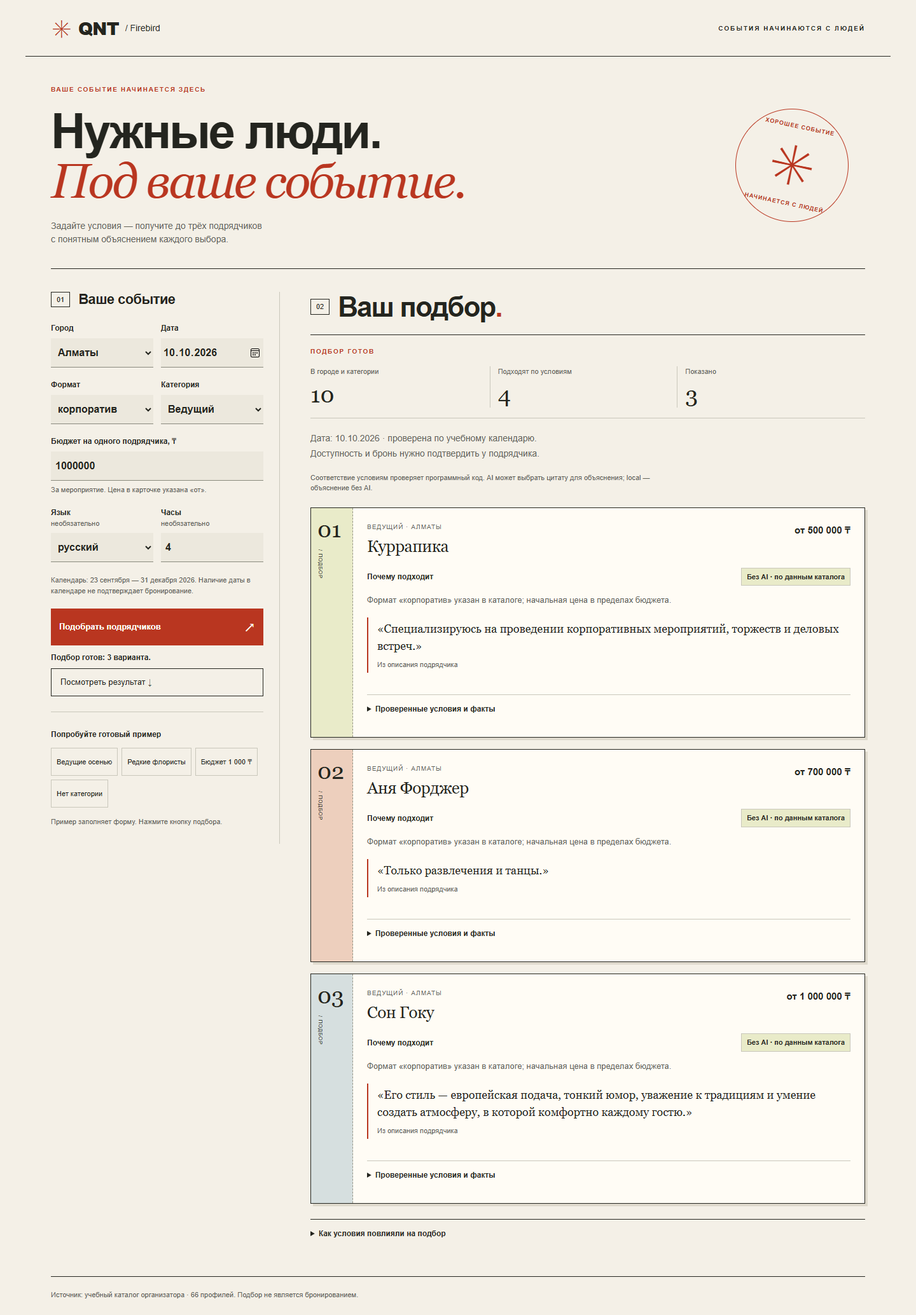
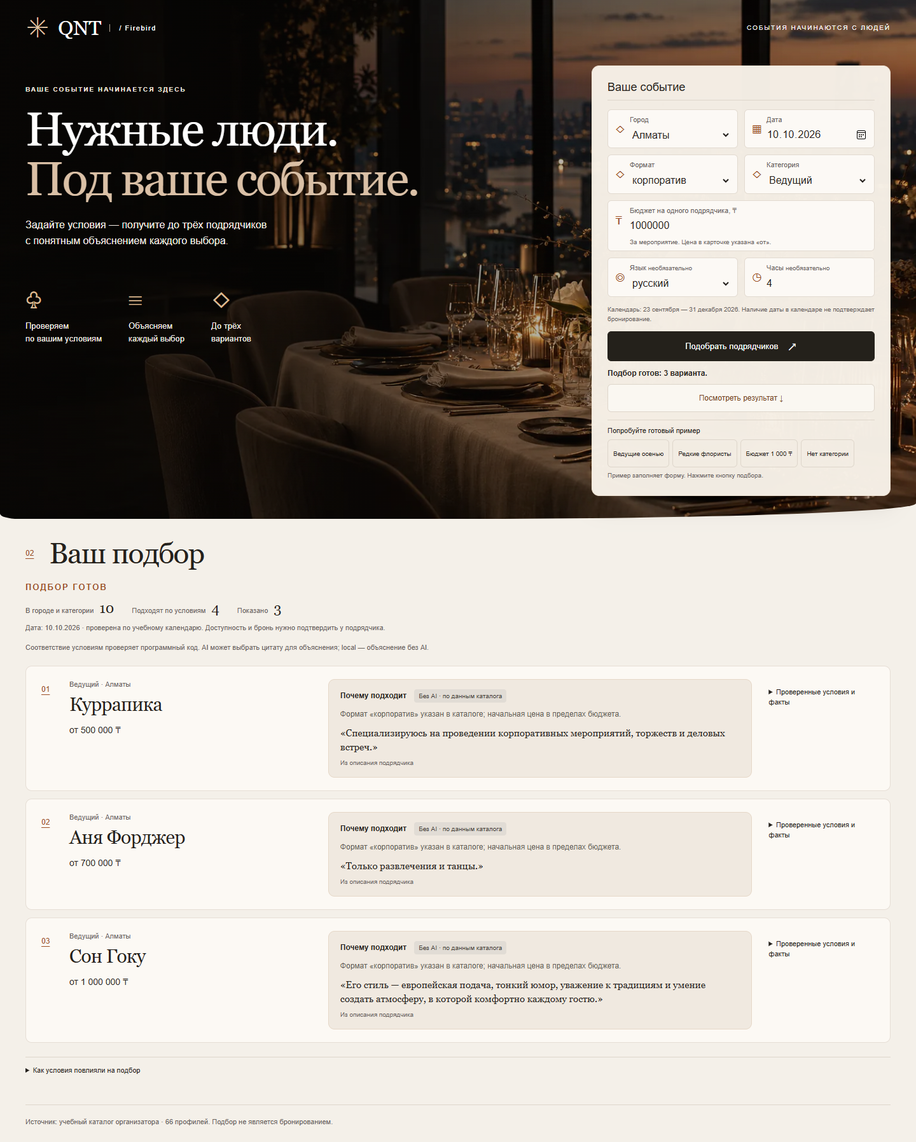
Adapt contractor UI to cinematic event design reference

diff --git a/frontend/src/style.css b/frontend/src/style.css
@@ -1,135 +1,143 @@
-:root{font-family:Arial,Helvetica,sans-serif;color:#24251f;background:#f4f0e7;font-synthesis:none;line-height:1.5;--ink:#24251f;--muted:#616157;--accent:#b93620;--line:#c9c7bb}
+:root{font-family:Arial,Helvetica,sans-serif;color:#25211d;background:#f4f0e9;font-synthesis:none;line-height:1.5;--ink:#25211d;--muted:#68615b;--accent:#9b4e24;--line:#ded6cb}
 *{box-sizing:border-box}
 body{margin:0}
 button,input,select{font:inherit}
 button,summary{cursor:pointer}
-button{border:1px solid var(--ink);background:transparent;color:var(--ink);padding:10px 14px;min-height:44px}
-button:hover{background:#e5dfd0}
+button{border:1px solid var(--line);background:#faf7f1;color:var(--ink);padding:10px 14px;min-height:44px;border-radius:6px}
+button:hover{background:#e9dfd1}
 button:disabled{opacity:.5;cursor:wait}
-:focus-visible{outline:3px solid #2459b5;outline-offset:4px}
+:focus-visible{outline:3px solid #2877cb;outline-offset:4px}
 a{color:inherit}
-header{max-width:1360px;margin:auto;padding:23px 40px;display:flex;align-items:center;justify-content:space-between;border-bottom:1px solid var(--ink)}
-.brand{display:flex;align-items:center;gap:10px;font-size:28px;font-weight:900;letter-spacing:-1px;text-decoration:none}
-.brand-case{font-size:14px;font-weight:400;letter-spacing:0}
-.mark{color:var(--accent);font-size:38px;line-height:1}
-.tag{font-size:10px;letter-spacing:2px;font-weight:700}
-main{max-width:1360px;margin:auto;padding:38px 40px 24px}
-.intro{display:flex;justify-content:space-between;gap:24px;align-items:center;padding-bottom:35px;border-bottom:1px solid var(--ink);margin-bottom:36px}
-.eyebrow{font-size:10px;letter-spacing:1.7px;font-weight:700}
-.intro .eyebrow{color:var(--accent);margin-top:0}
-h1{font-size:clamp(40px,5.5vw,76px);line-height:1.03;letter-spacing:-3px;margin:20px 0}
-h1 span{font-family:Georgia,'Times New Roman',serif;font-weight:400;font-style:italic;color:var(--accent)}
-.intro-copy>p:last-child{font-size:14px;color:var(--muted);margin-bottom:0}
-.poster-stamp{width:178px;height:178px;flex-shrink:0;border:1px solid var(--accent);border-radius:50%;display:flex;align-items:center;justify-content:center;flex-direction:column;color:var(--accent);transform:rotate(12deg);margin-right:26px}
-.poster-stamp span{font-size:9px;font-weight:700;letter-spacing:1px}
-.poster-stamp b{font-size:87px;line-height:1.25;font-weight:400}
-.layout{display:grid;grid-template-columns:minmax(300px,360px) minmax(0,1fr);gap:48px;align-items:start}
-.panel{padding:0 25px 24px 0;border-right:1px solid var(--line)}
-.section-title{display:flex;align-items:center;gap:13px;margin-bottom:24px}
-.step{font-size:11px;border:1px solid currentColor;padding:3px 8px;font-variant-numeric:tabular-nums}
-h2{font-size:22px;line-height:1.1;letter-spacing:-.6px;margin:0}
-.results>.section-title{border-bottom:1px solid var(--ink);padding-bottom:19px;margin-bottom:18px}
-.results h2{font-size:44px;letter-spacing:-2px;scroll-margin-top:24px}
-.title-dot{color:var(--accent)}
-.fields{display:grid;grid-template-columns:minmax(0,1fr) minmax(0,1fr);gap:18px 12px}
-label{font-size:12px;font-weight:700;min-width:0}
-input,select{display:block;width:100%;min-width:0;height:46px;border:0;border-bottom:1px solid #89897d;border-radius:0;padding:0 7px;margin-top:7px;background:#ece8dd;color:var(--ink);font-size:16px}
-input[type=date]{padding:0 3px}
+.hero{background:linear-gradient(90deg,#090806b8,#100c0845 65%,#100c0833),url('/event-dinner.webp') center 57%/cover no-repeat;background-color:#1b1713;color:#fff;padding-bottom:36px;border-radius:0 0 50% 2% / 0 0 3% 1%}
+header{max-width:1440px;margin:auto;padding:22px 40px;display:flex;align-items:center;justify-content:space-between;gap:20px}
+.brand{display:flex;align-items:center;gap:13px;font:32px Georgia,serif;text-decoration:none}
+.brand-case{font:11px Arial,sans-serif;letter-spacing:1.5px;border-left:1px solid #b9aa97;padding-left:14px}
+.mark{color:#e5c9aa;font-size:43px;line-height:1}
+.tag{font-size:10px;letter-spacing:2px}
+.hero-content{max-width:1440px;margin:auto;padding:16px 40px 0;display:grid;grid-template-columns:minmax(0,1fr) minmax(400px,470px);gap:64px;align-items:start}
+.intro{padding-top:30px;min-width:0}
+.eyebrow{font-size:10px;letter-spacing:2px;font-weight:600}
+.intro .eyebrow{margin:0 0 16px;color:#f1e8de}
+h1{font-family:Georgia,'Times New Roman',serif;font-weight:400;font-size:clamp(42px,5.2vw,76px);line-height:1.04;letter-spacing:-2.8px;margin:0 0 22px}
+h1 span{color:#dac0a6}
+.intro-copy>p:last-child{font-size:16px;line-height:1.55;max-width:430px;color:#f5eee7}
+.benefits{display:flex;gap:42px;margin-top:62px;font-size:13px;color:#f5eee7}
+.benefits span{display:block;font:38px Georgia,serif;color:#d9b993;line-height:1;margin-bottom:12px}
+.panel{background:#f6f0e7fa;color:var(--ink);padding:24px;border:1px solid #eee2d2;border-radius:12px;box-shadow:0 12px 40px #0002}
+.section-title{display:flex;align-items:center;gap:24px;margin-bottom:18px}
+.panel .section-title{border-bottom:1px solid var(--line);padding-bottom:9px;margin-bottom:14px}
+.step{color:var(--accent);font-size:12px;text-decoration:underline;text-underline-offset:4px}
+h2{font-size:18px;font-weight:500;line-height:1.1;margin:0}
+.fields{display:grid;grid-template-columns:minmax(0,1fr) minmax(0,1fr);gap:10px}
+.fields label{display:block;position:relative;font-size:11px;font-weight:400;color:var(--muted);min-width:0;border:1px solid #e2dad0;border-radius:6px;background:#fcf9f5;padding:7px 10px 4px 34px}
+.fields label:before{position:absolute;left:11px;top:20px;color:var(--accent);font:19px Georgia,serif;content:'◇'}
+.fields label[for=date]:before{content:'▦'}
+.fields label[for=budget]:before{content:'₸'}
+.fields label[for=language]:before{content:'◎'}
+.fields label[for=hours]:before{content:'◷'}
+input,select{display:block;width:100%;min-width:0;height:32px;border:0;border-radius:0;padding:0;margin:0;background:transparent;color:var(--ink);font-size:16px}
+input[type=date]{font-size:16px}
 .wide{grid-column:1/-1}
-small{font-size:11px;font-weight:400;color:var(--muted)}
-label small{display:block}
-.wide small{margin-top:6px}
-.hint{font-size:11px;color:var(--muted);margin:20px 0}
-.primary{width:100%;background:var(--accent);color:#fff;border-color:var(--accent);display:flex;justify-content:space-between;gap:10px;align-items:center;padding:16px 12px;font-size:13px;font-weight:700;text-align:left}
-.primary:hover{background:#922a18}
-.primary span{font-size:24px;line-height:1}
+small{font-size:10px;font-weight:400;color:var(--muted)}
+label small{display:inline}
+.wide small{display:block;margin:2px 0}
+.hint{font-size:10px;color:var(--muted);margin:12px 0}
+.primary{width:100%;background:#24211b;color:#fff;border-color:#24211b;display:flex;justify-content:center;gap:14px;align-items:center;padding:12px;font-size:13px;text-align:center}
+.primary:hover{background:#463a2d}
+.primary span{font-size:21px;line-height:1}
 .search-feedback{font-size:12px;font-weight:700;margin-top:10px}
 .search-feedback:empty{display:none}
-.outcome-link{width:100%;text-align:left;margin-top:8px;font-size:13px}
-.examples{margin-top:24px;border-top:1px solid var(--line);padding-top:14px}
-.examples p{font-size:12px;font-weight:700}
-.examples>div{display:flex;flex-wrap:wrap;gap:6px;margin-bottom:9px}
-.examples button{font-size:11px;border-color:var(--line);padding:8px}
-.summary{margin-bottom:18px}
-.summary .eyebrow{color:var(--accent)}
-.summary>p:last-child{font-size:14px}
-.explanation-note{font-size:11px;color:var(--muted);max-width:580px;margin:0 0 22px}
-.card{display:grid;grid-template-columns:66px minmax(0,1fr);background:#fffcf5;border:1px solid var(--ink);margin-bottom:18px;box-shadow:4px 4px 0 #ded9cc}
-.card-index{border-right:1px dashed #99988a;background:#e9ebc9;padding:14px 10px;font-size:36px;font-family:Georgia,serif;line-height:1.1}
-.card-index span{display:block;font:8px Arial,sans-serif;letter-spacing:1px;margin-top:12px;writing-mode:vertical-rl}
-.card:nth-of-type(2) .card-index{background:#edcfbd}
-.card:nth-of-type(3) .card-index{background:#d6dfdf}
-.card-body{padding:22px;min-width:0}
-.card-top{display:flex;justify-content:space-between;align-items:start;gap:12px}
-.meta{font-size:10px;text-transform:uppercase;letter-spacing:1px;color:var(--muted);margin:0 0 9px}
-h3{font-size:26px;font-family:Georgia,'Times New Roman',serif;line-height:1.15;font-weight:400;letter-spacing:-.5px;margin:0;overflow-wrap:anywhere}
-.price{font-size:15px;white-space:nowrap;padding-top:2px}
-.card-body>p{font-size:13px;line-height:1.7;margin:16px 0;overflow-wrap:anywhere}
-.pills{display:flex;gap:5px;flex-wrap:wrap}
-.pills span{border:1px solid var(--line);padding:4px 7px;font-size:10px;color:#505046;overflow-wrap:anywhere;max-width:100%}
-.card details{margin-top:16px;border-top:1px solid var(--line)}
-summary{font-size:12px;font-weight:700;min-height:44px;padding:13px 0}
+.outcome-link{width:100%;margin-top:8px;font-size:12px;color:#75421f}
+.examples{margin-top:12px;padding-top:8px;border-top:1px solid var(--line)}
+.examples p{font-size:11px;margin:0 0 6px}
+.examples>div{display:flex;flex-wrap:wrap;gap:5px}
+.examples button{font-size:10px;padding:7px 8px;min-height:44px;background:transparent}
+.examples small{display:block;margin-top:5px}
+.content{max-width:1440px;margin:auto;padding:28px 40px 24px}
+.results>.section-title{margin-bottom:18px}
+.results h2{font:46px Georgia,serif;letter-spacing:-1.5px;scroll-margin-top:24px}
+.title-dot{display:none}
+.summary{margin-bottom:15px}
+.summary>p{font-size:13px}
+.summary .eyebrow{color:var(--accent);margin:0}
+.explanation-note{font-size:11px;color:var(--muted);margin:12px 0 20px}
+.card{display:grid;grid-template-columns:36px minmax(0,1fr);gap:8px;background:#fcf9f4;border:1px solid #e6ded5;border-radius:10px;padding:20px 24px;margin-bottom:12px}
+.card-index{font-size:12px;color:var(--accent);padding-top:7px;text-decoration:underline;text-underline-offset:4px}
+.card-index span{display:none}
+.card-body{display:grid;grid-template-columns:minmax(190px,.8fr) minmax(0,1.4fr) minmax(120px,.35fr);column-gap:26px;align-items:start;min-width:0}
+.card-top{min-width:0}
+.meta{font-size:11px;color:var(--muted);margin:0 0 7px}
+h3{font:30px/1.15 Georgia,serif;letter-spacing:-.8px;margin:0 0 12px;overflow-wrap:anywhere}
+.price{font-size:14px;font-weight:500;display:block;color:var(--ink)}
+.pills{display:flex;gap:5px;flex-wrap:wrap;grid-column:1;grid-row:2}
+.pills:empty{display:none}
+.pills span{border-radius:20px;background:#eee6db;padding:4px 8px;font-size:10px;color:#62513f;overflow-wrap:anywhere;max-width:100%}
+.card details{grid-column:3;grid-row:1 / span 2;min-width:0}
+.card details[open]{grid-column:1/-1;grid-row:3;border-top:1px solid var(--line);margin-top:16px}
+summary{font-size:11px;font-weight:400;min-height:44px;padding:12px 0}
 dl{font-size:12px;margin:0 0 8px}
-dt{color:var(--muted);margin-top:12px}
+dt{color:var(--muted);margin-top:10px}
 dd{margin:2px 0 0;overflow-wrap:anywhere}
-.filters{border-top:1px solid var(--ink);margin-top:24px;font-size:12px}
+.filters{border-top:1px solid var(--line);margin-top:22px;font-size:12px}
 .filters ul{list-style:none;padding:0}
 .filters li{display:flex;justify-content:space-between;padding:7px 0;border-bottom:1px solid var(--line)}
-.error{background:#f5dbd0;border-left:3px solid var(--accent);padding:22px;font-size:14px;overflow-wrap:anywhere}
-.status{padding:30px;border:1px dashed var(--ink);font-size:14px}
-.empty{position:relative;background:#e9ebc9;min-height:390px;padding:30px;overflow:hidden;border:1px solid var(--ink)}
-.empty-icon{display:block;color:var(--accent);font-size:100px;line-height:1.1;margin:22px 0}
-.empty h3{font-size:36px;max-width:370px}
-.empty>p:not(.eyebrow){font-size:13px;color:#505046}
-.empty .pills{margin-top:25px}
-.empty .pills span{border-color:#95967e}
-footer{font-size:11px;color:var(--muted);border-top:1px solid var(--ink);margin-top:45px;padding-top:20px}
-.demo{padding:10px 20px;background:#e9ebc9;text-align:center;font-size:13px;font-weight:700}
-.demo span{font-weight:400}
-@media(min-width:1440px){main{padding-top:44px}
-}
-@media(max-width:1000px){.layout{gap:24px;grid-template-columns:310px minmax(0,1fr)}
-.panel{padding-right:18px}
-.card{grid-template-columns:46px minmax(0,1fr)}
-.card-index{font-size:27px;padding:14px 7px}
-.card-body{padding:18px}
-.card-top{flex-direction:column}
-.poster-stamp{width:140px;height:140px;margin-right:8px}
-.poster-stamp b{font-size:60px}
-.poster-stamp span{font-size:7px}
-}
-@media(max-width:760px){header{padding:16px 20px}
-.tag{display:none}
-main{padding:28px 20px 20px}
-.intro{margin-bottom:28px;padding-bottom:26px}
-.poster-stamp{display:none}
-h1{font-size:clamp(37px,7.5vw,56px);letter-spacing:-1.8px}
-.intro-copy>p:last-child{font-size:13px}
-.desktop{display:none}
-.layout{grid-template-columns:minmax(0,1fr);gap:34px}
-.panel{padding:0;border:0}
-.fields{gap:18px 14px}
-.results h2{font-size:40px}
-.card-top{flex-direction:column}
-.card-body{padding:18px}
-.card-index{font-size:27px}
-.card{grid-template-columns:44px minmax(0,1fr)}
-h3{font-size:25px}
-.empty{min-height:340px;padding:24px}
+.error{background:#f5e0d9;border-left:3px solid #a44028;padding:22px;font-size:14px;border-radius:6px;overflow-wrap:anywhere}
+.status{padding:30px;border:1px dashed var(--line);font-size:14px}
+.empty{border:1px solid var(--line);background:#faf6ef;padding:30px;border-radius:10px;position:relative}
+.empty-icon{float:right;font-size:80px;line-height:1;color:#ae805c}
 .empty h3{font-size:32px}
+.empty>p:not(.eyebrow){font-size:13px;color:var(--muted)}
+.empty .pills{margin-top:20px}
+footer{font-size:11px;color:var(--muted);border-top:1px solid var(--line);margin-top:30px;padding-top:18px}
+.demo{padding:10px 20px;background:#eed9b6;text-align:center;font-size:13px;font-weight:700}
+.demo span{font-weight:400}
+@media(max-width:1100px){.hero-content{grid-template-columns:minmax(0,1fr) 410px;gap:24px}
+header,.hero-content{padding-left:28px;padding-right:28px}
+.content{padding-left:28px;padding-right:28px}
+h1{font-size:54px}
+.benefits{gap:20px}
+.card-body{grid-template-columns:minmax(160px,.7fr) minmax(0,1.3fr)}
+.card details{grid-column:1/-1;grid-row:3;border-top:1px solid var(--line);margin-top:12px}
+.card{padding:20px}
+.card details[open]{margin-top:12px}
+}
+@media(max-width:760px){header{padding:18px 20px}
+.tag{display:none}
+.hero{border-radius:0 0 22px 22px;background-position:60% top}
+.hero-content{grid-template-columns:minmax(0,1fr);gap:28px;padding:0 20px}
+.intro{padding-top:20px}
+h1{font-size:clamp(39px,7vw,54px);letter-spacing:-1.8px}
+.intro-copy>p:last-child{font-size:14px;max-width:370px}
+.desktop{display:none}
+.benefits{margin-top:26px;gap:26px;font-size:11px}
+.benefits span{font-size:28px;margin-bottom:8px}
+.panel{padding:20px}
+.content{padding:26px 20px}
+.results h2{font-size:35px;letter-spacing:-1px}
+.section-title{gap:16px}
+.card{grid-template-columns:24px minmax(0,1fr);padding:18px 14px;gap:8px}
+.card-body{grid-template-columns:minmax(0,1fr);gap:14px}
+.card-top{display:flex;flex-wrap:wrap;align-items:start;justify-content:space-between;gap:8px}
+.card-top>div{min-width:0;flex:1 1 160px}
+h3{font-size:27px;margin-bottom:0}
+.price{padding-top:4px}
+.card .choice-reason{grid-column:1;grid-row:2}
+.card .pills{grid-row:3}
+.card details,.card details[open]{grid-column:1;grid-row:4;margin-top:0}
 .demo span{display:block}
-.examples button{font-size:12px}
-footer{margin-top:30px}
+.examples button{font-size:11px}
 }
-@media(max-width:360px){header{padding:14px 16px}
-main{padding:24px 16px}
+@media(max-width:360px){header{padding:16px}
+.hero-content{padding:0 16px}
+.content{padding:24px 16px}
+.panel{padding:16px}
 .fields{grid-template-columns:minmax(0,1fr)}
-.card-body{padding:14px}
-.card{grid-template-columns:34px minmax(0,1fr)}
-.card-index{font-size:22px;padding:14px 4px}
-.results h2{font-size:36px}
-.price{font-size:14px}
-.intro .eyebrow{font-size:9px;letter-spacing:1px}
-h1{font-size:37px}
-.card-body>p{font-size:13px}
+.benefits{gap:18px;font-size:10px}
+h1{font-size:39px}
+.intro .eyebrow{font-size:9px;letter-spacing:1.3px}
+.card{padding:16px 10px;grid-template-columns:20px minmax(0,1fr)}
+.results h2{font-size:32px}
+.empty-icon{font-size:50px}
 }
+
+@media(max-width:760px){.fields label[for=date]{padding-left:7px;padding-right:7px}.fields label[for=date]:before{display:none}}

diff --git a/frontend/src/main.tsx b/frontend/src/main.tsx
@@ -40,9 +40,9 @@ function App() {
  }
  return <>
   {demo && <div className="demo" role="note">Демонстрационные ответы интерфейса <span>· Вымышленные примеры, без сервера и AI</span></div>}
-  <header><a className="brand" href="./"><span className="mark" aria-hidden="true">✳</span> QNT <span className="brand-case">/ Firebird</span></a><span className="tag">СОБЫТИЯ НАЧИНАЮТСЯ С ЛЮДЕЙ</span></header>
-  <main><div className="intro"><div className="intro-copy"><p className="eyebrow">ВАШЕ СОБЫТИЕ НАЧИНАЕТСЯ ЗДЕСЬ</p><h1>Нужные люди.<br/><span>Под ваше событие.</span></h1><p>Задайте условия — получите до трёх подрядчиков<br className="desktop"/> с понятным объяснением каждого выбора.</p></div><div className="poster-stamp" aria-hidden="true"><span>ХОРОШЕЕ СОБЫТИЕ</span><b>✳</b><span>НАЧИНАЕТСЯ С ЛЮДЕЙ</span></div></div>
-  <div className="layout"><section className="panel" aria-labelledby="form-title"><div className="section-title"><span className="step">01</span><h2 id="form-title">Ваше событие</h2></div>
+  <main><div className="hero"><header><a className="brand" href="./"><span className="mark" aria-hidden="true">✳</span> QNT <span className="brand-case">/ Firebird</span></a><span className="tag">СОБЫТИЯ НАЧИНАЮТСЯ С ЛЮДЕЙ</span></header>
+  <div className="hero-content"><div className="intro"><div className="intro-copy"><p className="eyebrow">ВАШЕ СОБЫТИЕ НАЧИНАЕТСЯ ЗДЕСЬ</p><h1>Нужные люди.<br/><span>Под ваше событие.</span></h1><p>Задайте условия — получите до трёх подрядчиков<br className="desktop"/> с понятным объяснением каждого выбора.</p></div><div className="benefits"><div><span aria-hidden="true">♧</span>Проверяем<br/>по вашим условиям</div><div><span aria-hidden="true">≡</span>Объясняем<br/>каждый выбор</div><div><span aria-hidden="true">◇</span>До трёх<br/>вариантов</div></div></div>
+  <section className="panel" aria-labelledby="form-title"><div className="section-title"><h2 id="form-title">Ваше событие</h2></div>
   {!options && !optionsError && <p role="status">Загружаем справочники…</p>}
   {optionsError && <div role="alert" className="error"><p>{optionsError}</p><button onClick={() => setReload(r => r + 1)}>Повторить загрузку</button></div>}
   {options && <form onSubmit={submit}><div className="fields">
@@ -54,15 +54,15 @@ function App() {
    <label htmlFor="language">Язык <small>необязательно</small><select id="language" value={form.language} onChange={e => update('language', e.target.value)}><option value="">Без ограничения</option>{options.languages.map(v => <option key={v}>{v}</option>)}</select></label>
    <label htmlFor="hours">Часы <small>необязательно</small><input id="hours" type="number" min="0.01" step="any" placeholder="Без ограничения" value={form.duration_hours} onChange={e => update('duration_hours', e.target.value)}/></label>
   </div><p className="hint">Календарь: 23 сентября — 31 декабря 2026. Наличие даты в календаре не подтверждает бронирование.</p><button className="primary" type="submit">{loading ? 'Подбираем… Повторить запрос' : 'Подобрать подрядчиков'}<span aria-hidden="true">↗</span></button><div className="search-feedback" role="status" aria-atomic="true">{loading ? 'Проверяем условия. Ожидание — до 12 секунд…' : error ? 'Не удалось выполнить подбор.' : result ? (result.returned_count ? `Подбор готов: ${result.returned_count} варианта.` : 'Подбор завершён: совпадений нет.') : ''}</div>{(result || error) && <button className="outcome-link" type="button" onClick={() => { outcome.current?.focus({ preventScroll: true }); outcome.current?.scrollIntoView({ block: 'start' }); }}>{error ? 'Перейти к ошибке' : 'Посмотреть результат'} ↓</button>}</form>}
-  <div className="examples"><p>Попробуйте готовый пример</p><div>{examples.map(e => <button key={e.title} disabled={!options} onClick={() => example(e.request)}>{e.title}</button>)}</div><small>Пример заполняет форму. Нажмите кнопку подбора.</small></div></section>
-  <section className="results" aria-labelledby="results-title" aria-busy={loading}><div className="section-title"><span className="step">02</span><h2 id="results-title" ref={outcome} tabIndex={-1}>Ваш подбор<span className="title-dot">.</span></h2></div>
+  <div className="examples"><p>Попробуйте готовый пример</p><div>{examples.map(e => <button key={e.title} disabled={!options} onClick={() => example(e.request)}>{e.title}</button>)}</div><small>Пример заполняет форму. Нажмите кнопку подбора.</small></div></section></div></div>
+  <div className="content"><section className="results" aria-labelledby="results-title" aria-busy={loading}><div className="section-title"><span className="step">02</span><h2 id="results-title" ref={outcome} tabIndex={-1}>Ваш подбор<span className="title-dot">.</span></h2></div>
   <div>{loading && <p className="status">Проверяем условия. Ожидание — до 12 секунд…</p>}{result && <ResultSummary result={result} date={form.date}/>}</div>
   {error && <div className="error" role="alert">{error}<p>Параметры сохранены. Повторите подбор.</p></div>}
   {!result && !loading && !error && <div className="empty"><p className="eyebrow">ЛЮДИ / ИДЕИ / СОБЫТИЯ</p><span className="empty-icon" aria-hidden="true">✳</span><h3>У каждого выбора — основания</h3><p>Здесь появятся кандидаты, цены<br/> и факты, на которых основан подбор.</p><div className="pills"><span>До 3 вариантов</span><span>Прозрачные условия</span></div></div>}
   {Boolean(result?.cards.length) && <p className="explanation-note">Соответствие условиям проверяет программный код. AI может выбрать цитату для объяснения; local — объяснение без AI.</p>}
   {result?.cards.map((card, index) => <ContractorCard key={card.id} card={card} index={index}/>)}
   {result && <><details className="filters"><summary>Как условия повлияли на подбор</summary><p>В городе и категории: {result.total_in_category}. Последовательные фильтры: каждый исключённый кандидат учитывается только по первой причине.</p><ul>{result.rejections.map(r => <li key={r.code}>{reasons[r.code]} <strong>{r.count}</strong></li>)}</ul></details>{result.returned_count === 0 && <button onClick={() => firstField.current?.focus()}>Изменить условия ↑</button>}</>}
-  </section></div><footer>Источник: учебный каталог организатора{options ? ` · ${options.dataset_count} профилей` : ''}. {demo && 'Здесь показаны только отдельные вымышленные фикстуры.'} Подбор не является бронированием.</footer></main>
+  </section><footer>Источник: учебный каталог организатора{options ? ` · ${options.dataset_count} профилей` : ''}. {demo && 'Здесь показаны только отдельные вымышленные фикстуры.'} Подбор не является бронированием.</footer></div></main>
  </>;
 }
 createRoot(document.getElementById('root')!).render(<App/>);

diff --git a/frontend/src/result-details.css b/frontend/src/result-details.css
@@ -1,21 +1,25 @@
-/* Editorial presentation of the shared result components. */
-.result-counts{display:grid;grid-template-columns:repeat(3,minmax(0,1fr));gap:12px;margin:16px 0 20px;border-bottom:1px solid var(--line);padding-bottom:16px}
-.result-counts>div{padding:0 10px 0 0;border-right:1px solid var(--line)}
-.result-counts>div:last-child{border:0}
+.result-counts{display:flex;gap:28px;margin:10px 0}
+.result-counts>div{display:flex;align-items:baseline;gap:9px}
 .result-counts dt{margin:0;font-size:11px;color:var(--muted)}
-.result-counts dd{font:36px Georgia,serif;margin-top:8px}
-.result-summary .calendar-note{font-size:12px;line-height:1.65;color:var(--muted)}
-.choice-reason{padding:0;margin:18px 0;overflow-wrap:anywhere}
-.reason-heading{display:flex;align-items:center;justify-content:space-between;gap:8px;flex-wrap:wrap}
+.result-counts dd{font:22px Georgia,serif;margin:0}
+.result-summary .calendar-note{font-size:11px;color:var(--muted);margin:8px 0}
+.result-summary .calendar-note br{display:none}
+.choice-reason{grid-column:2;grid-row:1/span 2;background:#f0e9e0;border:1px solid #e6d8c8;padding:15px 18px;border-radius:10px;overflow-wrap:anywhere}
+.reason-heading{display:flex;align-items:center;gap:12px;flex-wrap:wrap}
 .reason-heading h4{font-size:12px;margin:0}
-.explanation-badge{display:inline-block;border:1px solid var(--line);padding:5px 8px;font-size:11px;font-weight:700}
-.explanation-badge.ai{background:var(--accent);color:white;border-color:var(--accent)}
-.explanation-badge.local{background:#e9ebc9;color:var(--ink)}
-.choice-reason>p{font-size:13px;color:var(--muted);line-height:1.7;margin:12px 0}
-.choice-reason blockquote{margin:16px 0 0;padding:4px 0 4px 14px;border-left:2px solid var(--accent)}
-.choice-reason blockquote p{font-family:Georgia,serif;font-size:18px;line-height:1.5;margin:0;overflow-wrap:anywhere}
-.choice-reason cite{display:block;font-size:11px;font-style:normal;color:var(--muted);margin-top:8px}
-.evidence-list>div{display:grid;grid-template-columns:minmax(110px,.7fr) minmax(0,1fr);gap:12px;border-bottom:1px solid var(--line);padding:9px 0}
+.explanation-badge{display:inline-block;border-radius:4px;padding:3px 7px;font-size:10px}
+.explanation-badge.ai{background:#c49975;color:#24180e}
+.explanation-badge.local{background:#e1dcd5;color:#443c35}
+.choice-reason>p{font-size:12px;color:#655d55;line-height:1.6;margin:9px 0}
+.choice-reason blockquote{margin:9px 0 0;padding:0}
+.choice-reason blockquote p{font:15px/1.5 Georgia,serif;margin:0;overflow-wrap:anywhere}
+.choice-reason cite{display:block;font-size:10px;font-style:normal;color:var(--muted);margin-top:5px}
+.evidence-list>div{display:grid;grid-template-columns:minmax(110px,.4fr) minmax(0,1fr);gap:12px;border-bottom:1px solid var(--line);padding:9px 0}
 .evidence-list dt{margin:0}
 .evidence-list dd{color:var(--ink)}
-@media(max-width:400px){.result-counts{gap:8px}.result-counts dt{font-size:11px}.evidence-list>div{grid-template-columns:1fr;gap:3px}.choice-reason blockquote p{font-size:17px}}
+@media(max-width:760px){.result-counts{display:grid;grid-template-columns:repeat(3,minmax(0,1fr));gap:12px}
+.result-counts>div{display:block}
+.result-counts dd{margin-top:6px}
+.choice-reason{padding:13px}
+.evidence-list>div{grid-template-columns:1fr;gap:3px}
+}

diff --git a/frontend/src/ResultDetails.tsx b/frontend/src/ResultDetails.tsx
@@ -25,7 +25,7 @@ export function ResultSummary({ result, date }: { result: Match; date: string })
   </dl>
   {result.status === 'category_missing' ? <p>Выберите другой город или категорию — в этом разделе каталога пока нет профилей.</p> : <>
    {result.eligible_count < 3 && <p>{result.eligible_count > 0 ? 'Показаны все подходящие варианты.' : 'Ни один профиль не прошёл все условия.'} {result.rejections.some(r => r.count > 0) ? 'Причины отсева — под результатами; можно изменить условия и повторить подбор.' : 'В каталоге мало профилей этой категории.'}</p>}
-   <p className="calendar-note">Дата: {displayDate} · проверена по учебному календарю.<br/>Доступность и бронь нужно подтвердить у подрядчика.</p>
+   <p className="calendar-note">Дата: {displayDate} · проверена по учебному календарю.<br/>{' '}Доступность и бронь нужно подтвердить у подрядчика.</p>
   </>}
  </div>;
 }

diff --git a/docs/UI_QA.md b/docs/UI_QA.md
@@ -39,3 +39,15 @@
 - Повторён frontend/qa/editorial.cjs против заново запущенного backend текущей версии на 8002, ENABLE_AI=false: все шесть ширин и сценарии PASS. Три реальных исхода, короткая выдача, клавиатура, отсутствие переполнения, повтор после подменённой ошибки и отмена позднего ответа. Подмены AI/флагов/двух карточек остаются только проверкой рендеринга.
 - Скриншоты обновлены; desktop визуально просмотрен. Деморежим отдельно повторно после интеграции не запускался (фикстуры покрыты тестами). Ограничения физического телефона, Safari, реального AI и публичного сервера остаются в силе.
 - Backend, README и остальные входящие файлы приняты из коммита Естая без дополнительных правок. Это интеграция main в рабочую ветку, не слияние в main и не деплой.
+
+## Дизайн по референсу Бекзата, 23.09.2026
+
+Первый экран полностью перекомпонован: фотографический фон, антиква, светлая форма справа; результаты — широкие горизонтальные карточки ниже. На мобильном — последовательная вертикальная композиция. Компоненты ResultSummary/ContractorCard и API сохранены. Из изображения не перенесены выдуманные рейтинги, «лучшие» подрядчики и ошибочная атрибуция local как AI.
+
+Фон `frontend/public/event-dinner.webp` создан встроенным imagegen, не является фотографией реального подрядчика. Размер 1536×1024, 111914 байт; сжатие WebP quality 78. Внешних запросов за изображениями/шрифтами и новых runtime-зависимостей нет. Pillow установлен только во временное QA-окружение.
+
+Промпт генерации: “Generate a photorealistic website hero background, landscape 1536x1024. Elegant intimate evening event dinner in a high-rise venue, floor-to-ceiling windows and distant city lights at dusk. Warm candlelight, ivory flowers, fine glassware and linen on a dinner table. Main floral arrangement in center-right. Left third very dark and uncluttered for overlay headline; right third can be covered by a UI form. Cinematic natural editorial photography, espresso black shadows, warm champagne highlights, quiet premium mood. No people, NO text, no letters, no signage, no logos, no interface. This is a background asset, not a screenshot.”
+
+Проверки: 17/17 frontend-тестов PASS, production build PASS (VITE_DEMO_MODE=false). Браузерный QA против реального обновлённого backend на 8002 без AI: все сценарии PASS на 320/375/390/768/1024/1440, включая пустую и короткую выдачу, отсутствие категории, клавиатуру, отмену позднего ответа, повтор после искусственной 503. AI/флаги/длинный текст/две карточки проверены подменами ответа. Скриншоты desktop/mobile обновлены и визуально просмотрены. Ограничения физических устройств и реального AI прежние.
+
+Размер production: JS 239.56 kB (gzip 75.09), CSS около 10.3 kB (gzip около 3), HTML 0.44 kB; плюс WebP 111.91 kB. Общий объём около 362 kB, передача с gzip для кода около 191 kB. Lighthouse и реальные сетевые замеры не проводились. Backend, README, контракт, деплой не изменялись.
